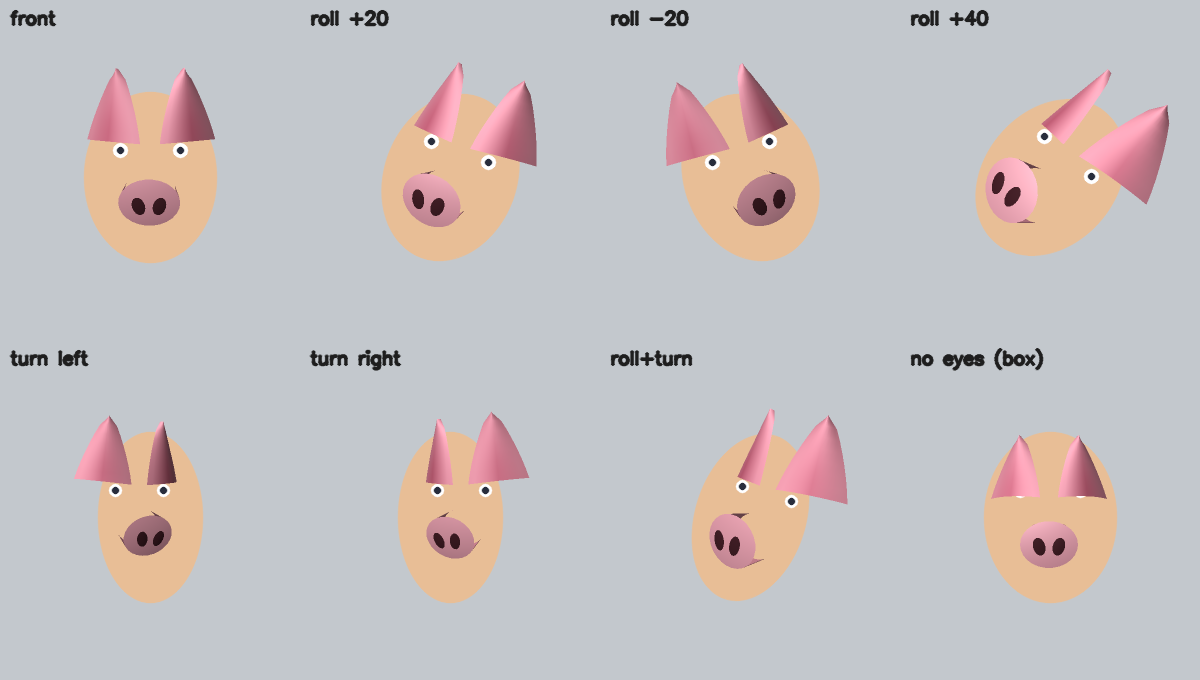
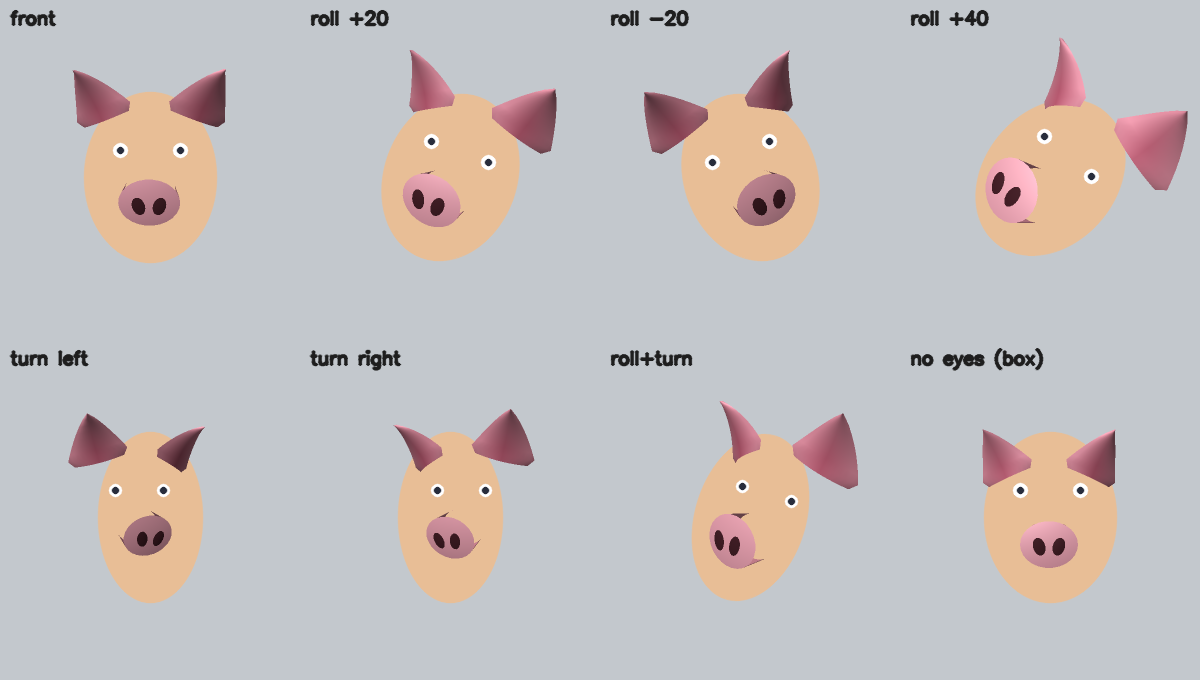
Reshape pig ears: broad floppy ears seated above the eyes
The ears read as horns and overlapped the eyes. Rebuild the ear mesh as a
real pig ear:

- Seat the base high on the top-side of the head (model y -0.82, x +-0.74),
  well above and outside the eyes, so it never covers them.
- Make it a broad triangle -- wide rounded base tapering to a soft point --
  instead of a narrow spike.
- Flatten the cup and add a progressive forward-and-down droop toward the
  tip so it flops like a real ear rather than standing up stiff.

Regenerates the showcase image.

Claude-Session: https://claude.ai/code/session_01X4id66V5a6MGvVKhGwhMqB

diff --git a/src/pig3d.cpp b/src/pig3d.cpp
@@ -174,9 +174,10 @@ Mesh buildNostrils() {
     return m;
 }
 
-// One ear: a tapering, gently cupped triangular flap standing up and out from
-// the top-side of the head. Double-sided; the lower-inner part is tinted a
-// deeper pink so the ear reads as having an inner hollow.
+// One ear: a broad, gently cupped triangular flap seated high on the top-side of
+// the head (clear of the eyes), rising up-and-out from a wide base and drooping
+// forward at the tip like a real pig's ear. Double-sided; the lower-inner part is
+// tinted a deeper pink so the ear reads as having an inner hollow.
 Mesh buildEar(float side, float wiggle) {
     Mesh m;
     m.doubleSided = true;
@@ -186,30 +187,40 @@ Mesh buildEar(float side, float wiggle) {
     const Vec3f pink(170, 150, 238);
     const Vec3f inner(120, 95, 200);
 
-    const Vec3f baseC(side * 0.64f, -0.44f, 0.04f);
-    // Ear plane normal: faces forward, angled out and slightly up.
-    Vec3f N = norm(Vec3f(side * 0.44f, -0.18f, -0.85f));
-    Vec3f width = norm(Vec3f(0.f, 1.f, 0.f).cross(N)); // across the ear
-    if (width[0] * side < 0.f) width = -width;         // point outward
-    Vec3f length = norm(width.cross(N));               // up the ear
-    if (length[1] > 0.f) length = -length;             // ensure it points up
-    const float earLen = 1.22f, curv = 0.15f;
+    // Seat the ear high on the top-side of the head, well above and outside the
+    // eyes (model eyes are at (+-0.5, -0.35)), so it never covers them.
+    const Vec3f baseC(side * 0.74f, -0.82f, 0.02f);
+    // The ear is a broad triangular flap. `length` runs up and outward from the
+    // base; `front` is roughly where its front face looks (forward, out, up).
+    Vec3f length = norm(Vec3f(side * 0.42f, -1.0f, -0.05f)); // up and out
+    Vec3f front = Vec3f(side * 0.45f, -0.20f, -0.86f);
+    Vec3f width = norm(front.cross(length)); // across the ear, in its plane
+    if (width[0] * side < 0.f) width = -width;
+    Vec3f N = norm(length.cross(width)); // true plane normal
+    if (N[2] > 0.f) N = -N;              // face the camera
+    // Floppy forward-and-down droop of the tip -> a real ear, not a stiff horn.
+    const Vec3f droopDir = norm(Vec3f(side * 0.05f, 0.42f, -1.0f));
+    const float earLen = 1.02f, curv = 0.12f, droop = 0.34f;
 
-    const int nS = 11, nT = 8;
+    const int nS = 13, nT = 9;
     std::vector<std::vector<int>> g(nT, std::vector<int>(nS));
     for (int ti = 0; ti < nT; ++ti) {
         float t = (float)ti / (nT - 1);
-        // Broad, rounded base tapering to a soft point -> a floppy ear, not a horn.
-        float halfW = 0.54f * std::pow(1.f - t, 0.5f) * (0.55f + 0.45f * std::cos(t * 1.2f));
+        // Wide, rounded base tapering to a soft point: broad triangle, not a spike.
+        float halfW = 0.62f * std::pow(1.f - t, 0.85f);
+        // Round the very base corners in a touch.
+        if (t < 0.12f) halfW *= 0.75f + 0.25f * (t / 0.12f);
         for (int si = 0; si < nS; ++si) {
             float s = 2.f * si / (nS - 1) - 1.f; // -1..1 across width
             Vec3f p = baseC + length * (t * earLen) + width * (s * halfW);
-            // Cup the flap: bulge the middle forward, easing off toward the tip.
-            float cup = curv * (1.f - s * s) * (1.f - 0.45f * t);
+            // Gentle cup so the flap catches light without curling like a cone.
+            float cup = curv * (1.f - s * s) * (1.f - 0.5f * t);
             p += N * cup;
-            // Deeper pink toward the lower-central hollow.
-            float inF = clampf((1.f - std::fabs(s)) * 1.15f - 0.2f, 0.f, 1.f) *
-                        clampf(1.25f * (1.f - t), 0.f, 1.f);
+            // Progressive forward droop, strongest at the tip.
+            p += droopDir * (droop * t * t);
+            // Deeper pink toward the lower-central inner hollow.
+            float inF = clampf((1.f - std::fabs(s)) * 1.1f - 0.15f, 0.f, 1.f) *
+                        clampf(1.3f * (1.f - t), 0.f, 1.f);
             Vec3f c = pink * (1.f - inF) + inner * inF;
             g[ti][si] = m.add(p, c);
         }
